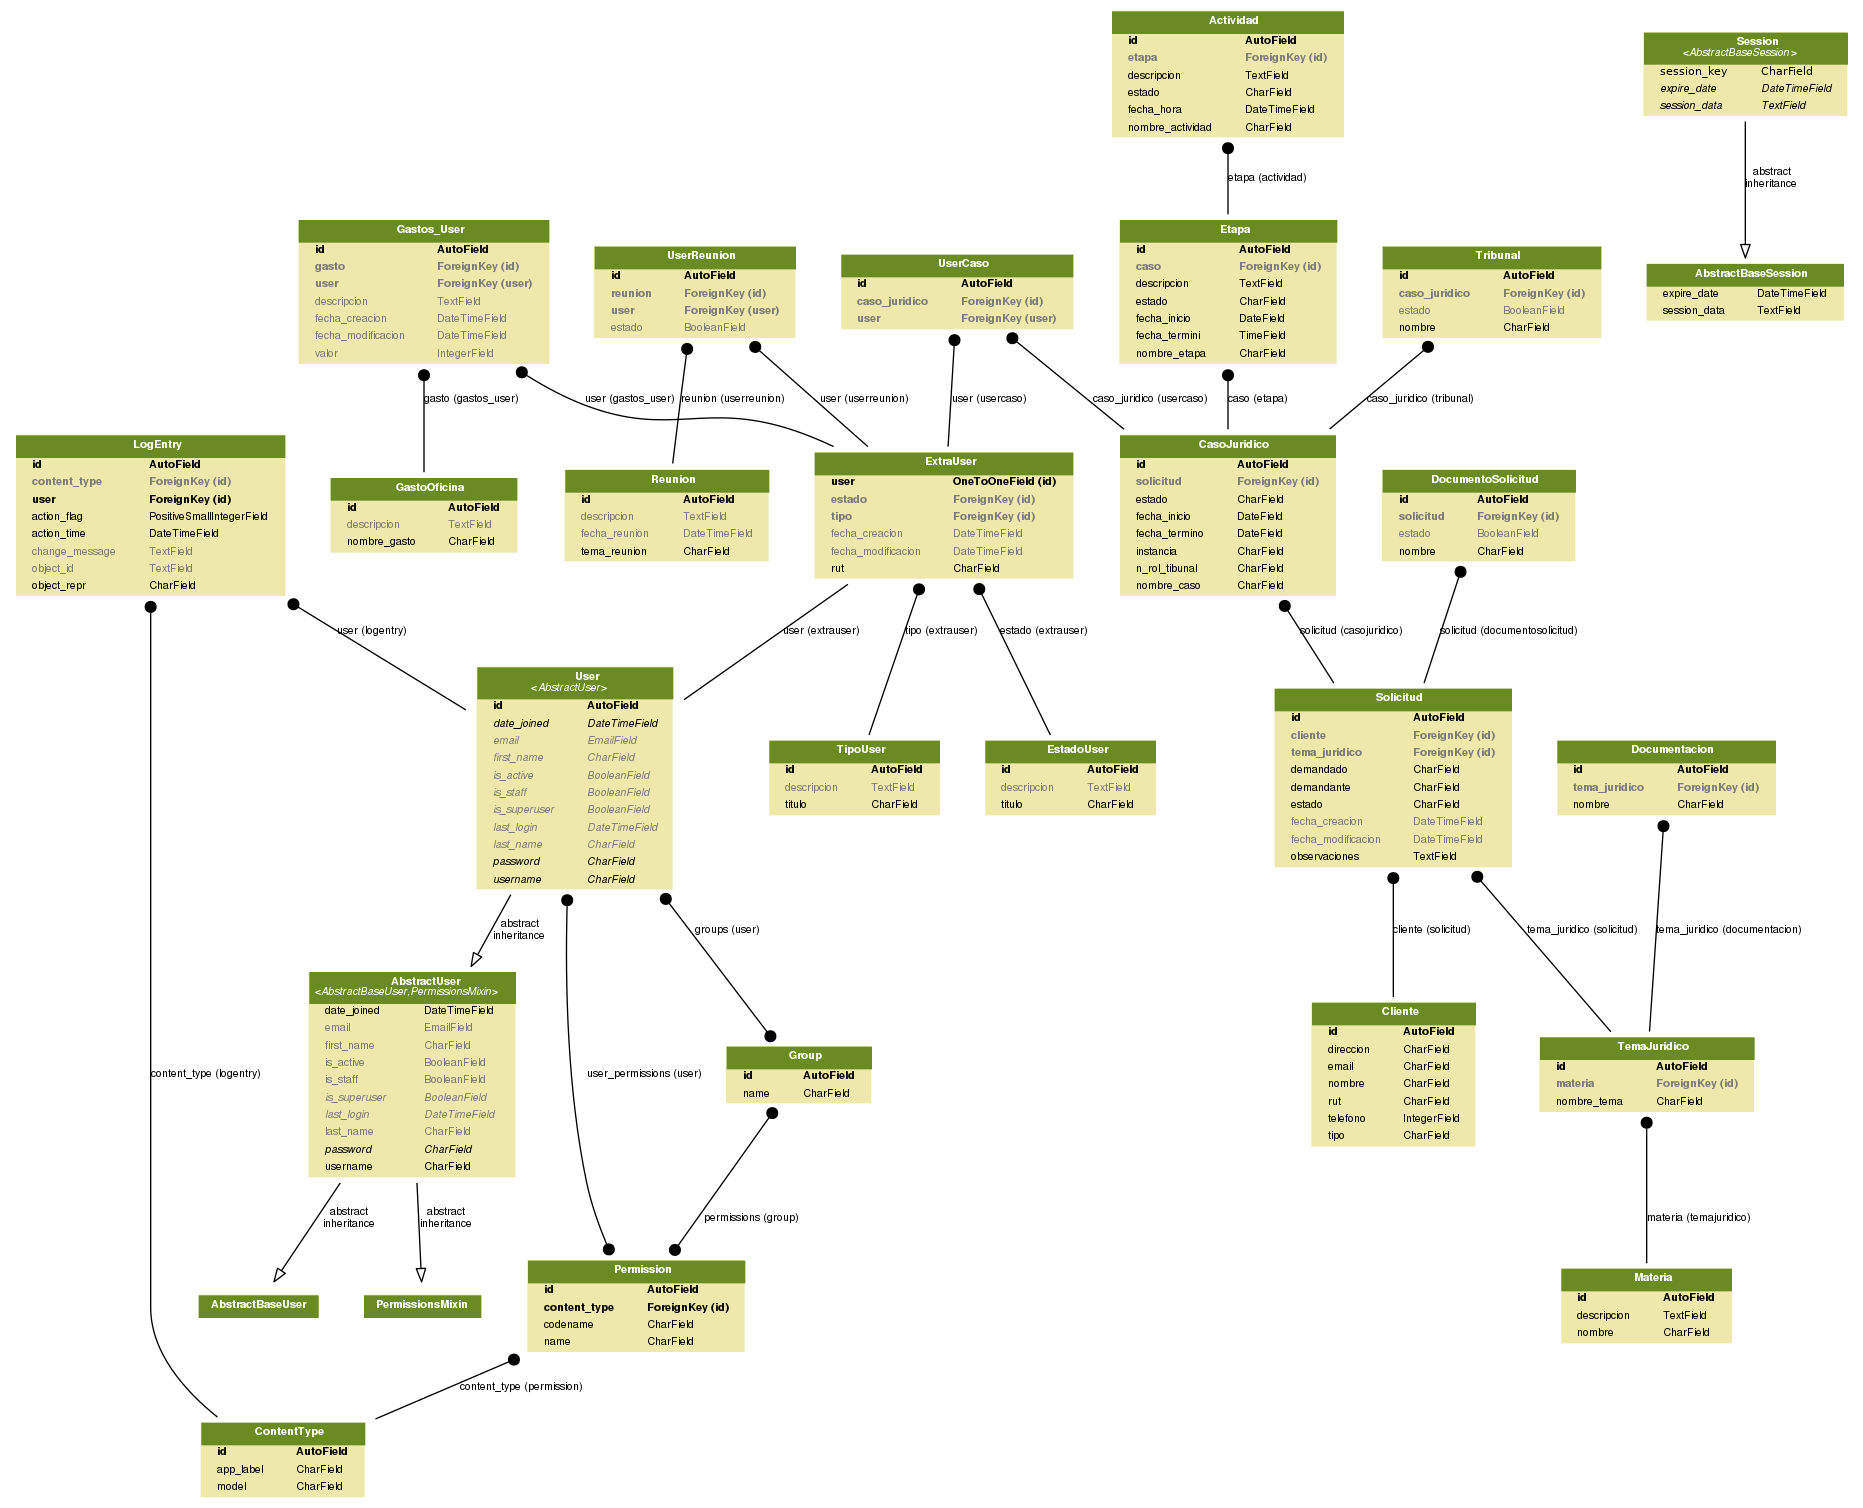
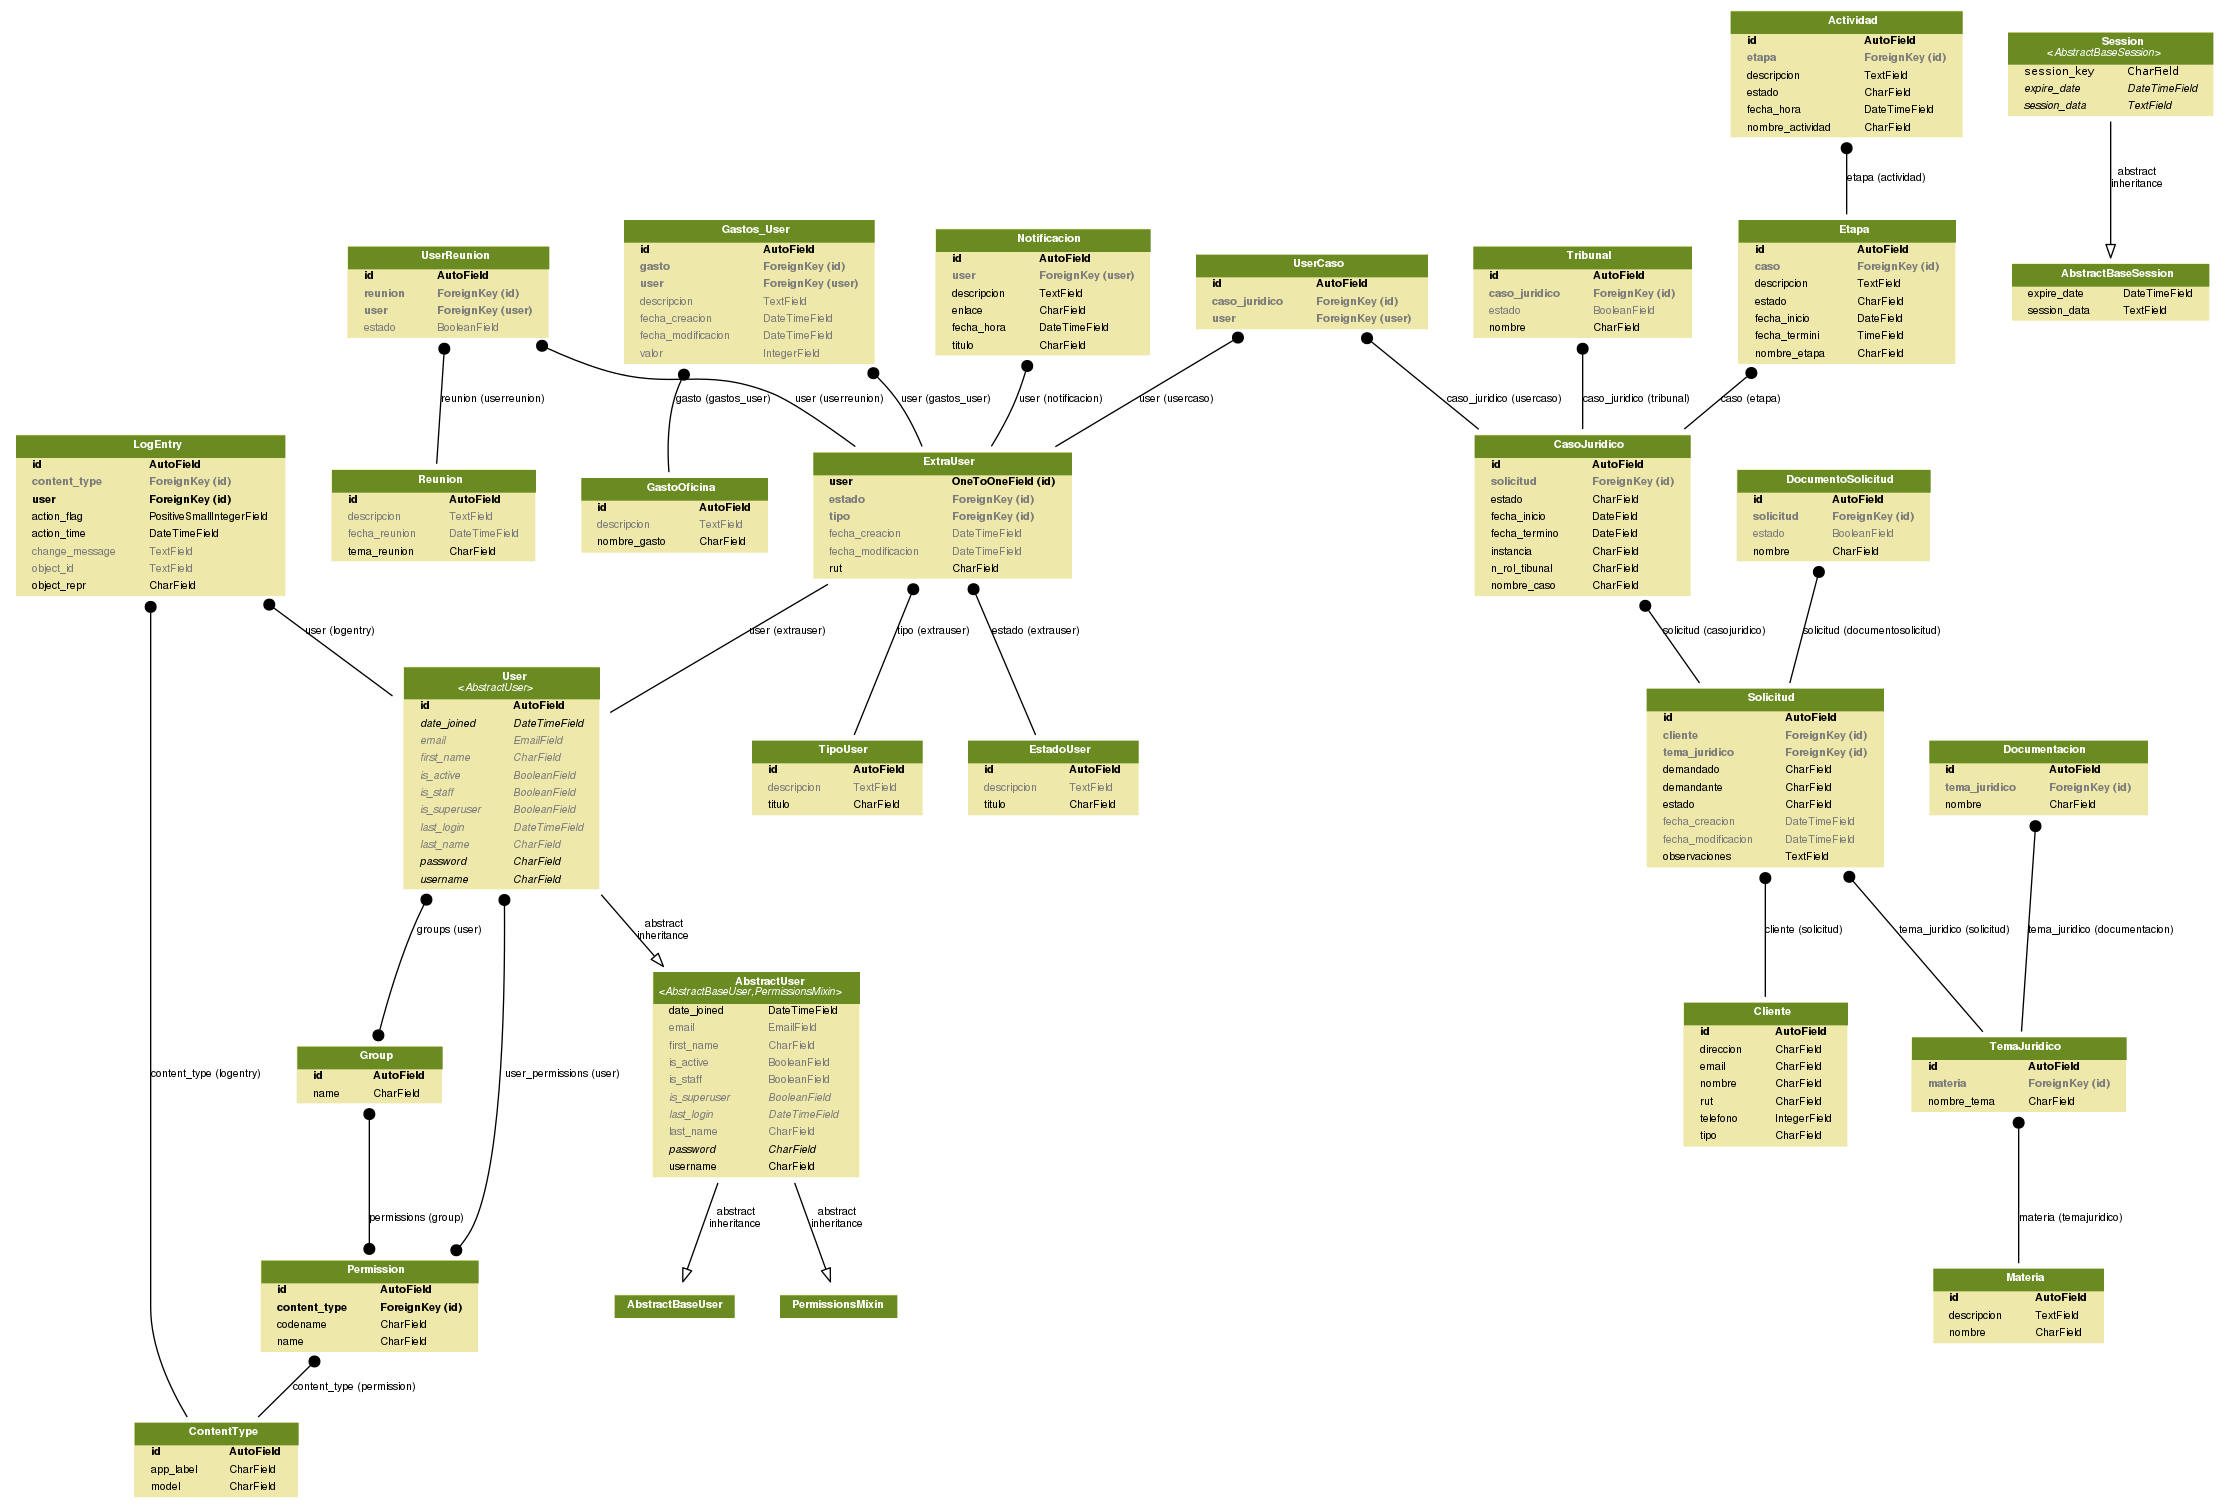
sube 3

diff --git a/App_Base/migrations/0002_notificacion.py b/App_Base/migrations/0002_notificacion.py
@@ -1,0 +1,25 @@
+# Generated by Django 2.0.1 on 2018-01-06 15:35
+
+from django.db import migrations, models
+import django.db.models.deletion
+
+
+class Migration(migrations.Migration):
+
+    dependencies = [
+        ('App_Base', '0001_initial'),
+    ]
+
+    operations = [
+        migrations.CreateModel(
+            name='Notificacion',
+            fields=[
+                ('id', models.AutoField(auto_created=True, primary_key=True, serialize=False, verbose_name='ID')),
+                ('titulo', models.CharField(max_length=50)),
+                ('descripcion', models.TextField()),
+                ('enlace', models.CharField(max_length=100)),
+                ('fecha_hora', models.DateTimeField()),
+                ('user', models.ForeignKey(blank=True, on_delete=django.db.models.deletion.CASCADE, to='App_Base.ExtraUser')),
+            ],
+        ),
+    ]

diff --git a/App_Base/models.py b/App_Base/models.py
@@ -178,4 +178,18 @@ class Actividad(models.Model):
     descripcion = models.TextField()
     estado = models.CharField(max_length=50)
 
+    def __str__(self):
+        return '{}'.format(self.nombre_actividad)
+
+
+class Notificacion(models.Model):
+    user = models.ForeignKey(ExtraUser, blank=True, on_delete=models.CASCADE)
+    titulo = models.CharField(max_length=50)
+    descripcion = models.TextField()
+    enlace = models.CharField(max_length=100)
+    fecha_hora = models.DateTimeField()
+
+    def __str__(self):
+        return '{}'.format(self.titulo)
+
 
